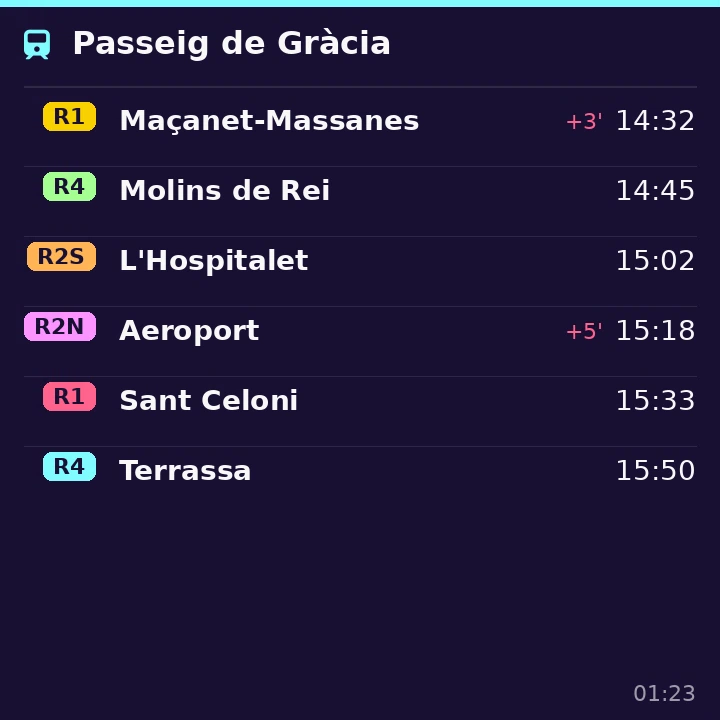
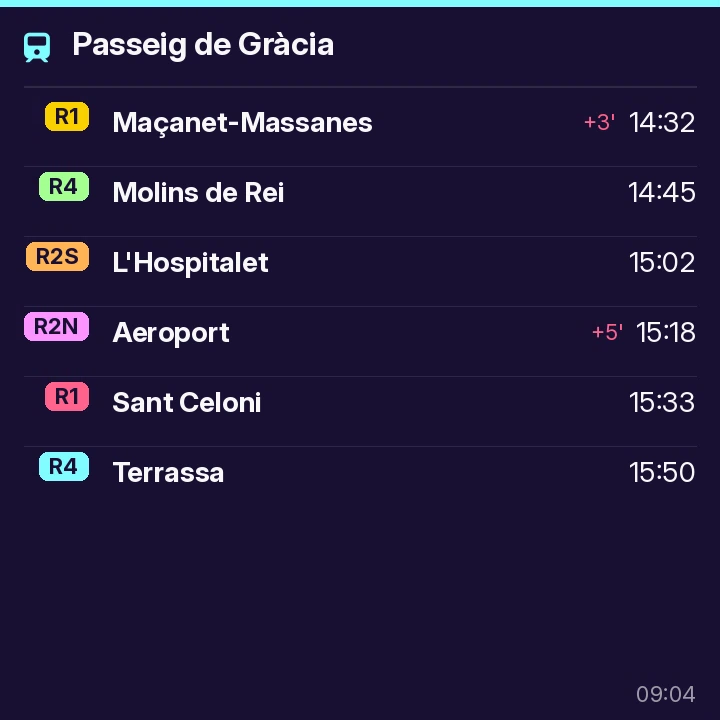
fix(host): 🔧 use Inter variable font and fix playerctl arg splitting

diff --git a/host/display.py b/host/display.py
@@ -50,21 +50,33 @@ def lerp_color(a, b, t):
 
 
 def find_font(size, bold=False):
-    suffix = "Bold" if bold else ""
     names = [
-        f"/usr/share/fonts/truetype/dejavu/DejaVuSans{'-' + suffix if suffix else ''}.ttf",
-        f"/usr/share/fonts/TTF/DejaVuSans{'-' + suffix if suffix else ''}.ttf",
-        f"/run/current-system/sw/share/X11/fonts/DejaVuSans{'-' + suffix if suffix else ''}.ttf",
+        "/run/current-system/sw/share/X11/fonts/InterVariable.ttf",
+        "/usr/share/fonts/truetype/inter/InterVariable.ttf",
+        "/usr/share/fonts/TTF/InterVariable.ttf",
     ]
     for n in names:
+        try:
+            font = ImageFont.truetype(n, size)
+            # InterVariable axes: [optical size, weight]
+            opsz = min(32, max(14, size))
+            weight = 700 if bold else 400
+            font.set_variation_by_axes([opsz, weight])
+            return font
+        except (OSError, IOError, AttributeError):
+            continue
+    # Fallback to Inter.ttc or DejaVuSans
+    fallbacks = [
+        "/run/current-system/sw/share/X11/fonts/Inter.ttc",
+        "Inter",
+        "DejaVuSans",
+    ]
+    for n in fallbacks:
         try:
             return ImageFont.truetype(n, size)
         except (OSError, IOError):
             continue
-    try:
-        return ImageFont.truetype(f"DejaVuSans{'-' + suffix if suffix else ''}", size)
-    except (OSError, IOError):
-        return ImageFont.load_default()
+    return ImageFont.load_default()
 
 
 def find_nerd_font(size):

diff --git a/host/waveshare_display.py b/host/waveshare_display.py
@@ -168,20 +168,20 @@ def cmd_sysmon(args):
 
 
 def cmd_nowplaying(args):
-    def playerctl(prop):
+    def playerctl(*args):
         try:
             return subprocess.check_output(
-                ["playerctl", prop], stderr=subprocess.DEVNULL, timeout=2,
+                ["playerctl", *args], stderr=subprocess.DEVNULL, timeout=2,
             ).decode().strip()
         except (subprocess.SubprocessError, FileNotFoundError):
             return ""
 
     fg, bg, accent = resolve_colors(args)
-    title = playerctl("metadata title")
-    artist = playerctl("metadata artist")
-    album = playerctl("metadata album")
+    title = playerctl("metadata", "title")
+    artist = playerctl("metadata", "artist")
+    album = playerctl("metadata", "album")
     status = playerctl("status")
-    art_url = playerctl("metadata mpris:artUrl")
+    art_url = playerctl("metadata", "mpris:artUrl")
 
     data = render_nowplaying(title, artist, album, status, art_url,
                              DISPLAY_W, DISPLAY_H, bg, fg, accent)
